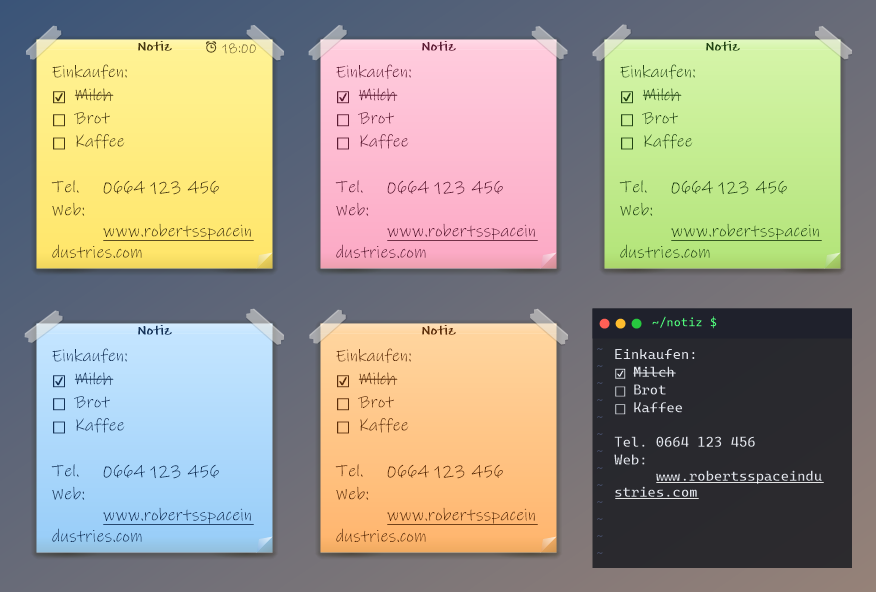
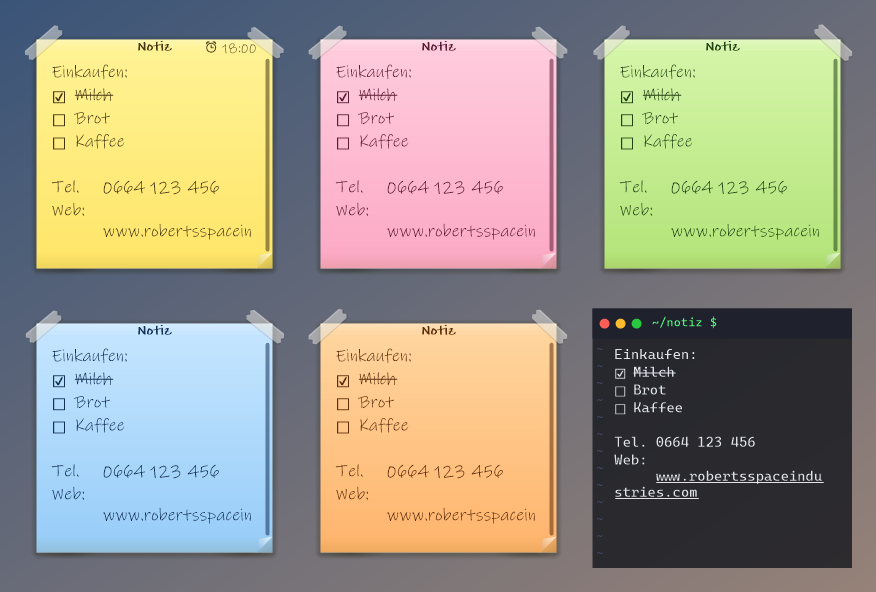
Docs, changelogs and release notes for 2.4.0; winget prepare script
- Changelog 2.4.0 in English and German, new Italian changelog; the in-app
  help and changelog include Italian
- Release notes contain all three languages (German/Italian folded)
- README rewritten; README widget image uses demo data only
- packaging/winget/prepare.ps1 fills in version and SHA256 and validates
- Donate button (About, settings) prepared; hidden until a PayPal link is set
- Version 2.4.0

diff --git a/NoFences/PreviewRenderer.cs b/NoFences/PreviewRenderer.cs
@@ -155,10 +155,13 @@ namespace NoFences
             sheet.Save(Path.Combine(outDir, "extras.png"), ImageFormat.Png);
         }
 
-        /// <summary>All widgets once, in fitting styles (with this PC's real data).</summary>
+        /// <summary>
+        /// All widgets (widgets.png, with this PC's real drives and recycle bin – for checking only) and a set
+        /// without personal data for the README (widgets-docs.png).
+        /// </summary>
         private static void RenderWidgets(string outDir, IFenceHost host)
         {
-            var items = new (string Type, string Theme, Size Size)[]
+            RenderWidgetSheet(outDir, host, "widgets.png", new (string, string, Size)[]
             {
                 ("clock", "default", new Size(280, 320)),
                 ("system", "gaming", new Size(260, 300)),
@@ -166,7 +169,18 @@ namespace NoFences
                 ("recyclebin", "nerd", new Size(220, 210)),
                 ("playtime", "gaming", new Size(270, 260)),
                 ("countdown", "family", new Size(280, 200)),
-            };
+            });
+            RenderWidgetSheet(outDir, host, "widgets-docs.png", new (string, string, Size)[]
+            {
+                ("clock", "default", new Size(280, 320)),
+                ("playtime", "nerd", new Size(270, 260)),
+                ("countdown", "postit", new Size(280, 220)),
+                ("system", "gaming", new Size(260, 230)),
+            });
+        }
+
+        private static void RenderWidgetSheet(string outDir, IFenceHost host, string file, (string Type, string Theme, Size Size)[] items)
+        {
             const int gap = 24;
             using var sheet = new Bitmap(items.Sum(i => i.Size.Width + gap) + gap, items.Max(i => i.Size.Height) + 2 * gap, PixelFormat.Format32bppArgb);
             using var g = Graphics.FromImage(sheet);
@@ -192,7 +206,7 @@ namespace NoFences
                 g.Restore(state);
                 x += size.Width + gap;
             }
-            sheet.Save(Path.Combine(outDir, "widgets.png"), ImageFormat.Png);
+            sheet.Save(Path.Combine(outDir, file), ImageFormat.Png);
         }
 
         /// <summary>Draws a dialog offscreen (it is never shown).</summary>

diff --git a/NoFences/AboutDialog.cs b/NoFences/AboutDialog.cs
@@ -10,6 +10,18 @@ namespace NoFences
         public const string Repository = "https://github.com/" + UpdateChecker.Repository;
         public const string Original = "https://github.com/Twometer/NoFences";
 
+        /// <summary>PayPal donation link; empty = no donate button anywhere.</summary>
+        public const string DonateUrl = "";
+
+        public static bool CanDonate => DonateUrl.Length > 0;
+
+        public static void OpenDonate()
+        {
+            if (!CanDonate)
+                return;
+            try { Process.Start(new ProcessStartInfo(DonateUrl) { UseShellExecute = true }); } catch { }
+        }
+
         private static AboutDialog? open;
 
         public static void ShowSingle()
@@ -74,6 +86,13 @@ namespace NoFences
             whatsNew.Click += (_, _) => DocumentViewer.ShowDocument(Strings.ChangelogDocument, Strings.WhatsNew);
             var buttons = new FlowLayoutPanel { FlowDirection = FlowDirection.RightToLeft, AutoSize = true, Dock = DockStyle.Bottom, Padding = new Padding(0, 16, 0, 0) };
             buttons.Controls.AddRange(new Control[] { ok, whatsNew });
+            if (CanDonate)
+            {
+                var donate = new Button { Text = "♥ " + Strings.Donate, AutoSize = true, ForeColor = Color.FromArgb(0, 112, 186) };
+                donate.Click += (_, _) => OpenDonate();
+                buttons.Controls.Add(donate);
+                text.Controls.Add(new Label { Text = Strings.DonateHint, AutoSize = true, MaximumSize = new Size(380, 0), Margin = new Padding(3, 12, 3, 0) });
+            }
             AcceptButton = ok;
             CancelButton = ok;
 

diff --git a/NoFences/Util/Strings.cs b/NoFences/Util/Strings.cs
@@ -331,6 +331,10 @@ namespace NoFences.Util
         public static string AboutCredits => T("Based on NoFences by Twometer and contributors — thank you!",
                                                "Basiert auf NoFences von Twometer und Mitwirkenden – danke!",
                                                "Basato su NoFences di Twometer e collaboratori – grazie!");
+        public static string Donate => T("Donate (PayPal)", "Spenden (PayPal)", "Dona (PayPal)");
+        public static string DonateHint => T("NoFences is free. If you like it, a small donation helps keep it going – thank you!",
+                                             "NoFences ist kostenlos. Wenn es dir gefällt, hilft eine kleine Spende beim Weitermachen – danke!",
+                                             "NoFences è gratuito. Se ti piace, una piccola donazione aiuta a portarlo avanti – grazie!");
         public static string AboutLicense => T("Open source under the MIT license.", "Open Source unter der MIT-Lizenz.", "Open source con licenza MIT.");
 
         #endregion

diff --git a/NoFences/AppSettingsDialog.cs b/NoFences/AppSettingsDialog.cs
@@ -190,6 +190,11 @@ namespace NoFences
             }));
             Wide(grid, Action(Strings.CheckForUpdatesNow, async () => await app.CheckForUpdatesAsync(manual: true)));
             Wide(grid, Action(Strings.WhatsNew, () => DocumentViewer.ShowDocument(Strings.ChangelogDocument, Strings.WhatsNew)));
+            if (AboutDialog.CanDonate)
+            {
+                Hint(grid, Strings.DonateHint, ContentWidth);
+                Wide(grid, Action("♥ " + Strings.Donate, AboutDialog.OpenDonate));
+            }
         }
 
         private void BuildFps(FlowLayoutPanel page)

diff --git a/README.md b/README.md
@@ -1,54 +1,58 @@
 # NoFences
 
-Free, open-source desktop fences for Windows 10/11.
+Free, open-source desktop fences for Windows 10/11 – plus sticky notes and widgets.
+English · Deutsch · Italiano
 
 > **This is a fork of [Twometer/NoFences](https://github.com/Twometer/NoFences)**, created by
 > [Twometer](https://github.com/Twometer) and its contributors. All credit for the original idea and
 > implementation goes to them. This fork ports the app to .NET 10 and adds the features listed below.
 > See [Credits](#credits).
 
-![screenshot](screenshot.png)
+![Styles](docs/styles.png)
 
 ## Features
 
-- **Link fences**: drag files/folders from anywhere in; they stay where they are.
-- **Folder fences**: show the live contents of a folder. Dropping files moves them into it
-  (Ctrl = copy), so the icons actually leave your desktop.
-- **Auto-sort**: give a fence patterns like `*.pdf; *.docx` (or pick a preset) and new desktop files
-  matching them are moved into it automatically. Finished browser downloads are picked up too.
-  Tray → "Tidy up desktop now" sorts what is already there.
-- **Sticky notes**: note fences with free text and clickable `[ ]` checkboxes, with a Post-it style.
-- **Double-click empty desktop space** to hide/show all fences; **Ctrl+Alt+D** brings them in front of all windows.
-- Sorting per fence (manual, name, type, date, size).
-- Built-in updates from GitHub releases with one click.
-- Reorder items by drag & drop, drag items between fences or out to Explorer.
-- Shell thumbnails (images, videos, PDFs …) and selectable icon size (24–96 px).
-- **16 styles** plus your own as JSON files, globally or per fence (see below); optional animations.
-- Multi-select, keyboard shortcuts (Enter, Delete, F2, Ctrl+A/C, arrows) and type-to-search.
-- Snapping, positions remembered per monitor setup, automatic config backups with restore.
-- Note reminders and clickable links in notes.
-- Auto-collapse to the title bar, lock, background color/opacity, title height.
-- Tray icon: new fence, show/hide all fences, autostart, file extensions, exit.
-- Per-monitor DPI aware; fences that end up off-screen are moved back.
+**Fences**
+- **Link fences**: drag files/folders in from anywhere; they stay where they are.
+- **Folder fences**: show the live contents of a folder; dropping files moves them in, so the icons really leave the desktop.
+- **Auto-sort**: patterns like `*.pdf; *.docx` move new desktop files (and finished downloads) into a fence automatically.
+- **Tabs**, **recent files**, an icons-only **quick-launch bar**, sorting (manual, name, type, date, size).
+- Multi-select, keyboard (Enter, Delete, F2, Ctrl+A/C, arrows) and type-to-search.
+- Snapping, positions per monitor setup, per virtual desktop, always on top, collapse to the title bar.
+- Double-click empty desktop space to hide all fences; **Ctrl+Alt+D** brings them in front of all windows.
 
-Right-click a fence for its menu; right-click an item for the Explorer menu (Shift + right-click for the fence menu).
-
-**Help:** [HELP.md](HELP.md) · [HILFE.md](HILFE.md) (Deutsch), also available in the app (tray or fence menu → Help).
-
-See [CHANGELOG.md](CHANGELOG.md) ([Deutsch](CHANGELOG.de.md)) for all changes.
-
-## Styles
-
-![All styles](docs/styles.png)
-
-Standard (glass) · Star Citizen (HUD) · Retro-Arcade · Hardware (circuit board) · Nerd (terminal) ·
-Hobby (pinboard) · Work (business) · Family · Gaming (RGB) · Finance (trading desk) · Social ·
-Post-it (yellow, pink, green, blue, orange) · plus own styles (★, see the help)
+**Sticky notes** – free text, clickable `[ ]` checkboxes, links, reminders, a taped-on Post-it look in five colors.
 
 ![Sticky notes](docs/notes.png)
 
-Pick one in the tray menu (default style) or per fence via right-click → Style.
-`NoFences.exe --preview <folder>` renders all styles with sample items into PNGs.
+**Widgets** – clock & calendar, system monitor (CPU, RAM, GPU, optional FPS), drives, recycle bin,
+**playtime** of any game (pick its exe, NoFences records how long it runs) and a **countdown**.
+
+![Widgets](docs/widgets-docs.png)
+
+**Styles** – 24 built-in styles (glass, Star Citizen HUD, Retro-Arcade, Hardware, Nerd, Hobby, Work, Family, Gaming,
+Finance, Social, Documents, Multimedia, Music, Sport, Photos, Travel, Cooking, Nature, Post-it ×5) plus your own as JSON
+files; optional animations.
+
+**App** – settings window, English / German / Italian, built-in updates with one click, export/import, automatic
+backups, help and changelog inside the app.
+
+## Download
+
+Get `NoFences.exe` from the [latest release](https://github.com/hofergeorg-tech/NoFences/releases/latest) – a single
+file, no installation, no .NET needed. Windows may show a SmartScreen warning because the exe isn't code-signed yet:
+"More info" → "Run anyway".
+
+**Help:** [English](HELP.md) · [Deutsch](HILFE.md) · [Italiano](AIUTO.md) – also in the app (tray → Help).
+**Changes:** [English](CHANGELOG.md) · [Deutsch](CHANGELOG.de.md) · [Italiano](CHANGELOG.it.md)
+
+## FPS measurement
+
+Optional and off by default. Windows only provides frame-rate events (ETW) to processes with administrator rights,
+so NoFences starts a small helper (`NoFences.exe --fps-helper`) elevated – the main app never runs as administrator.
+The helper only counts presented frames per process and writes the frame rate of the program in front to a small file;
+it reads no screen content and no input. Enabling it in the settings explains this and asks Windows once (UAC); a
+Task Scheduler task then starts it without asking. Disabling removes the task.
 
 ## Build
 
@@ -56,26 +60,27 @@ Requires the [.NET 10 SDK](https://dotnet.microsoft.com/download).
 
 ```
 dotnet build NoFences/NoFences.csproj -c Release
+dotnet test NoFences.Tests/NoFences.Tests.csproj
 ```
 
-`.\publish.ps1` creates a self-contained single `dist\NoFences.exe` that runs without a .NET install.
-
-Pushing a tag like `v2.0.0` (must match `<Version>` in the csproj) makes the GitHub Action build the exe,
-attach a build-provenance attestation and create the release. Code signing via SignPath Foundation kicks in
-automatically once the secret `SIGNPATH_API_TOKEN` and the variable `SIGNPATH_ORGANIZATION_ID` are set.
+- `.\publish.ps1` creates the self-contained single `dist\NoFences.exe`.
+- `NoFences.exe --preview <folder>` renders all styles, notes, widgets and dialogs into PNGs (used for the images above).
+- Pushing a tag like `v2.4.0` (must match `<Version>` in the csproj and have a changelog section) builds the exe, attaches
+  a build-provenance attestation and creates the release with the changelog in three languages. Code signing via SignPath
+  kicks in once `SIGNPATH_API_TOKEN` and `SIGNPATH_ORGANIZATION_ID` are set.
+- winget: see [packaging/winget](packaging/winget/README.md).
 
 ## Configuration
 
-Stored in `%LocalAppData%\NoFences\fences.json`. Fences from NoFences 1.x are migrated automatically.
-
-**Portable mode:** put an empty `portable.txt` next to `NoFences.exe`; the config is then kept next to the exe.
+Stored in `%LocalAppData%\NoFences\` (`fences.json`, `playtime.json`, `backups\`, `themes\`). Fences from NoFences 1.x are
+migrated automatically. **Portable mode:** put an empty `portable.txt` next to `NoFences.exe`.
 
 ## Credits
 
 - **[Twometer](https://github.com/Twometer)**: original author of NoFences ([Twometer/NoFences](https://github.com/Twometer/NoFences)).
 - Contributors to the original project: Birol Capa, damianb53, Daniel Lerch, GordnCZ, lucarnosky, QIVD, Tim.
 - Shell context menu (`Win32/ShellContextMenu.cs`): Andreas Johansson, based on FileBrowser from CodeProject.
-- Fork maintained by [hofergeorg-tech](https://github.com/hofergeorg-tech).
+- Fork maintained by Georg Hofer – [www.georg-hofer.com](https://www.georg-hofer.com).
 
 ## License
 

diff --git a/CHANGELOG.it.md b/CHANGELOG.it.md
@@ -1,0 +1,57 @@
+# Registro delle modifiche
+
+Tutte le modifiche importanti a questo fork. English: [CHANGELOG.md](CHANGELOG.md) · Deutsch: [CHANGELOG.de.md](CHANGELOG.de.md)
+
+## [2.4.0] - 2026-10-03
+
+### Novità
+- **Widget**: orologio e calendario, monitor di sistema (CPU, RAM, carico e temperatura GPU, FPS), unità, cestino,
+  tempo di gioco e conto alla rovescia. Menu della barra o del recinto → Nuovo widget.
+- **Tempo di gioco** per qualsiasi gioco: scegli l'eseguibile, NoFences registra per quanto tempo è in esecuzione
+  (oggi, settimana, mese, totale, in corso).
+- **Conto alla rovescia** fino a una data, con titolo.
+- **Misurazione FPS** (facoltativa, disattivata di default): un piccolo supporto con diritti di amministratore conta i
+  fotogrammi del programma in primo piano; Windows lo chiede una volta, le impostazioni spiegano perché.
+- Recinto **"File recenti"** e **barra di avvio rapido** (solo icone, nomi come suggerimento).
+- **Schede** nei recinti collegamenti.
+- **Solo su questo desktop virtuale** per singolo recinto.
+- **Esporta/importa** recinti e stili personali, ad es. per un altro PC.
+- **Finestra delle impostazioni** (barra → Impostazioni) con tutte le opzioni generali; il menu della barra è molto più corto.
+- **Impostazioni del recinto** ridisegnate, con sezioni e anteprima dal vivo.
+- **Lingue**: inglese, tedesco e **italiano**; automatica (lingua di Windows, altrimenti inglese) o scelta nelle impostazioni.
+- **Finestra Informazioni** con versione, riconoscimenti e link.
+- **8 nuovi stili**: Documenti, Multimedia, Musica, Sport, Foto, Viaggi, Cucina, Natura – 24 stili in totale; ogni stile
+  ha un colore d'accento per i widget.
+
+### Correzioni
+- OK nelle impostazioni di un recinto collegamenti rimuoveva tutti i collegamenti.
+- Aprire le impostazioni di un widget causava un arresto anomalo.
+- Nel post-it gli elementi sporgevano in basso oltre l'ombra del foglio.
+- La scorciatoia "Porta i recinti in primo piano" era attaccata al testo del menu senza spazio.
+
+## [2.3.0] - 2026-10-02
+
+Selezione multipla, tastiera e ricerca; aggancio ai bordi; posizioni per configurazione dei monitor; backup della
+configurazione; promemoria e link nelle note; post-it in cinque colori; animazioni; stili personali in JSON;
+rinomina con doppio clic sul titolo; test automatici.
+
+## [2.2.0] - 2026-10-01
+
+Note (post-it) con caselle di controllo, stile Post-it attaccato al desktop, "Sempre in primo piano", nuovi recinti
+vicino al mouse.
+
+## [2.1.0] - 2026-10-01
+
+Aggiornamenti automatici con un clic, scorciatoia per portare i recinti in primo piano, ordinamento per recinto.
+
+## [2.0.0] - 2026-10-01
+
+Prima versione di questo fork: riscritto su .NET 10, recinti cartella, ordinamento automatico dal desktop, stili,
+icona nella barra, guida e registro delle modifiche nell'app. Basato su
+[Twometer/NoFences](https://github.com/Twometer/NoFences) di Twometer e collaboratori.
+
+[2.4.0]: https://github.com/hofergeorg-tech/NoFences/releases/tag/v2.4.0
+[2.3.0]: https://github.com/hofergeorg-tech/NoFences/releases/tag/v2.3.0
+[2.2.0]: https://github.com/hofergeorg-tech/NoFences/releases/tag/v2.2.0
+[2.1.0]: https://github.com/hofergeorg-tech/NoFences/releases/tag/v2.1.0
+[2.0.0]: https://github.com/hofergeorg-tech/NoFences/releases/tag/v2.0.0

diff --git a/CHANGELOG.de.md b/CHANGELOG.de.md
@@ -2,6 +2,32 @@
 
 Alle wichtigen Änderungen an diesem Fork. English version: [CHANGELOG.md](CHANGELOG.md).
 
+## [2.4.0] - 2026-10-03
+
+### Neu
+- **Widgets**: Uhr & Kalender, System-Monitor (CPU, RAM, GPU-Last und -Temperatur, FPS), Laufwerke, Papierkorb,
+  Spielzeit und Countdown. Tray- oder Fence-Menü → Neues Widget.
+- **Spielzeit** für beliebige Spiele: EXE auswählen, NoFences zeichnet auf, wie lange es läuft (heute, Woche, Monat, gesamt, läuft gerade).
+- **Countdown** bis zu einem Datum mit Titel.
+- **FPS-Messung** (optional, standardmäßig aus): Ein kleiner Helfer mit Administratorrechten zählt die Bilder des Programms
+  im Vordergrund; Windows fragt einmal, die Einstellungen erklären, warum.
+- Fence **„Zuletzt verwendet“** und **Schnellstart-Leiste** (nur Icons, Namen als Tooltip).
+- **Reiter** in Verknüpfungs-Fences.
+- **Nur auf diesem virtuellen Desktop** pro Fence.
+- **Export/Import** von Fences und eigenen Styles, z. B. für einen zweiten PC.
+- **Einstellungsfenster** (Tray → Einstellungen) mit allem, was die ganze App betrifft; das Tray-Menü ist viel kürzer.
+- **Fence-Einstellungen** neu gestaltet, mit Bereichen und Live-Vorschau.
+- **Sprachen**: Englisch, Deutsch und **Italienisch**; automatisch (Windows-Sprache, sonst Englisch) oder in den Einstellungen gewählt.
+- **Info-Fenster** mit Version, Credits und Links.
+- **8 neue Styles**: Dokumente, Multimedia, Musik, Sport, Fotos, Reisen, Kochen, Natur – insgesamt 24 Styles; jeder Style hat
+  eine Akzentfarbe für Widgets.
+
+### Behoben
+- OK in den Einstellungen eines Verknüpfungs-Fences hat alle Verknüpfungen entfernt.
+- Die Einstellungen eines Widgets zu öffnen führte zum Absturz.
+- Beim Post-it ragten Einträge unten über den Schatten des Papiers hinaus.
+- Das Tastenkürzel „Fences nach vorne holen“ klebte ohne Abstand am Menütext.
+
 ## [2.3.0] - 2026-10-02
 
 ### Neu
@@ -110,6 +136,7 @@ Erste Version dieses Forks. Neu aufgebaut auf .NET 10, basierend auf
 
 Original-NoFences von Twometer, siehe [Twometer/NoFences](https://github.com/Twometer/NoFences).
 
+[2.4.0]: https://github.com/hofergeorg-tech/NoFences/releases/tag/v2.4.0
 [2.3.0]: https://github.com/hofergeorg-tech/NoFences/releases/tag/v2.3.0
 [2.2.0]: https://github.com/hofergeorg-tech/NoFences/releases/tag/v2.2.0
 [2.1.0]: https://github.com/hofergeorg-tech/NoFences/releases/tag/v2.1.0

diff --git a/CHANGELOG.md b/CHANGELOG.md
@@ -3,6 +3,32 @@
 All notable changes to this fork. Format based on [Keep a Changelog](https://keepachangelog.com/),
 versions follow [Semantic Versioning](https://semver.org/). German version: [CHANGELOG.de.md](CHANGELOG.de.md).
 
+## [2.4.0] - 2026-10-03
+
+### Added
+- **Widgets**: clock & calendar, system monitor (CPU, RAM, GPU load and temperature, FPS), drives, recycle bin,
+  playtime and countdown. Tray or fence menu → New widget.
+- **Playtime** for any game: pick its exe, NoFences records how long it runs (today, week, month, total, running now).
+- **Countdown** to a date with a title.
+- **FPS measurement** (optional, off by default): a small helper with administrator rights counts the frames of the
+  program in front; Windows asks once, the settings explain why.
+- **Recent files** fence and **quick-launch bar** (icons only, names as tooltips).
+- **Tabs** in link fences.
+- **Only on this virtual desktop** per fence.
+- **Export/import** of fences and own styles, e.g. for another PC.
+- **Settings window** (tray → Settings) with everything app-wide; the tray menu is much shorter.
+- **Fence settings** redesigned with sections and a live preview.
+- **Languages**: English, German and **Italian**; automatic (Windows language, English otherwise) or chosen in the settings.
+- **About window** with version, credits and links.
+- **8 new styles**: Documents, Multimedia, Music, Sport, Photos, Travel, Cooking, Nature – 24 styles in total; every
+  style has an accent color for widgets.
+
+### Fixed
+- OK in the settings of a link fence removed all of its links.
+- Opening the settings of a widget crashed.
+- Post-it items spilled over the paper's shadow at the bottom.
+- The peek shortcut was stuck to the menu text without a space.
+
 ## [2.3.0] - 2026-10-02
 
 ### Added
@@ -110,6 +136,7 @@ First release of this fork. Rewritten on .NET 10; based on
 
 Original NoFences by Twometer, see [Twometer/NoFences](https://github.com/Twometer/NoFences).
 
+[2.4.0]: https://github.com/hofergeorg-tech/NoFences/releases/tag/v2.4.0
 [2.3.0]: https://github.com/hofergeorg-tech/NoFences/releases/tag/v2.3.0
 [2.2.0]: https://github.com/hofergeorg-tech/NoFences/releases/tag/v2.2.0
 [2.1.0]: https://github.com/hofergeorg-tech/NoFences/releases/tag/v2.1.0

diff --git a/packaging/winget/README.md b/packaging/winget/README.md
@@ -7,19 +7,16 @@ winget install hofergeorg-tech.NoFences
 ```
 
 They are submitted as a pull request to [microsoft/winget-pkgs](https://github.com/microsoft/winget-pkgs).
-Do that **after** the exe is code-signed (SignPath): unsigned exes regularly fail Microsoft's validation
-or trigger SmartScreen for every user.
+winget accepts unsigned apps (Microsoft scans them when the PR is opened); signing can come later.
 
 ## For each release
 
-1. Copy the three files into `manifests/h/hofergeorg-tech/NoFences/<version>/` in a fork of winget-pkgs.
-2. Replace `{VERSION}` and `{SHA256}`:
+`.\prepare.ps1 <version>` downloads the release exe, fills in version and SHA256 and validates the
+manifests into `out\<version>\`. Then:
+
+1. Copy the three files from `out\<version>\` into `manifests/h/hofergeorg-tech/NoFences/<version>/` in a fork of winget-pkgs.
+2. Test the install locally:
    ```powershell
-   (Get-FileHash NoFences.exe -Algorithm SHA256).Hash
-   ```
-3. Validate and test locally:
-   ```powershell
-   winget validate --manifest <folder>
    winget install --manifest <folder>
    ```
-4. Open the pull request. Later versions can use `wingetcreate update hofergeorg-tech.NoFences --version <v> --urls <url> --submit`.
+3. Open the pull request. Later versions can use `wingetcreate update hofergeorg-tech.NoFences --version <v> --urls <url> --submit`.
